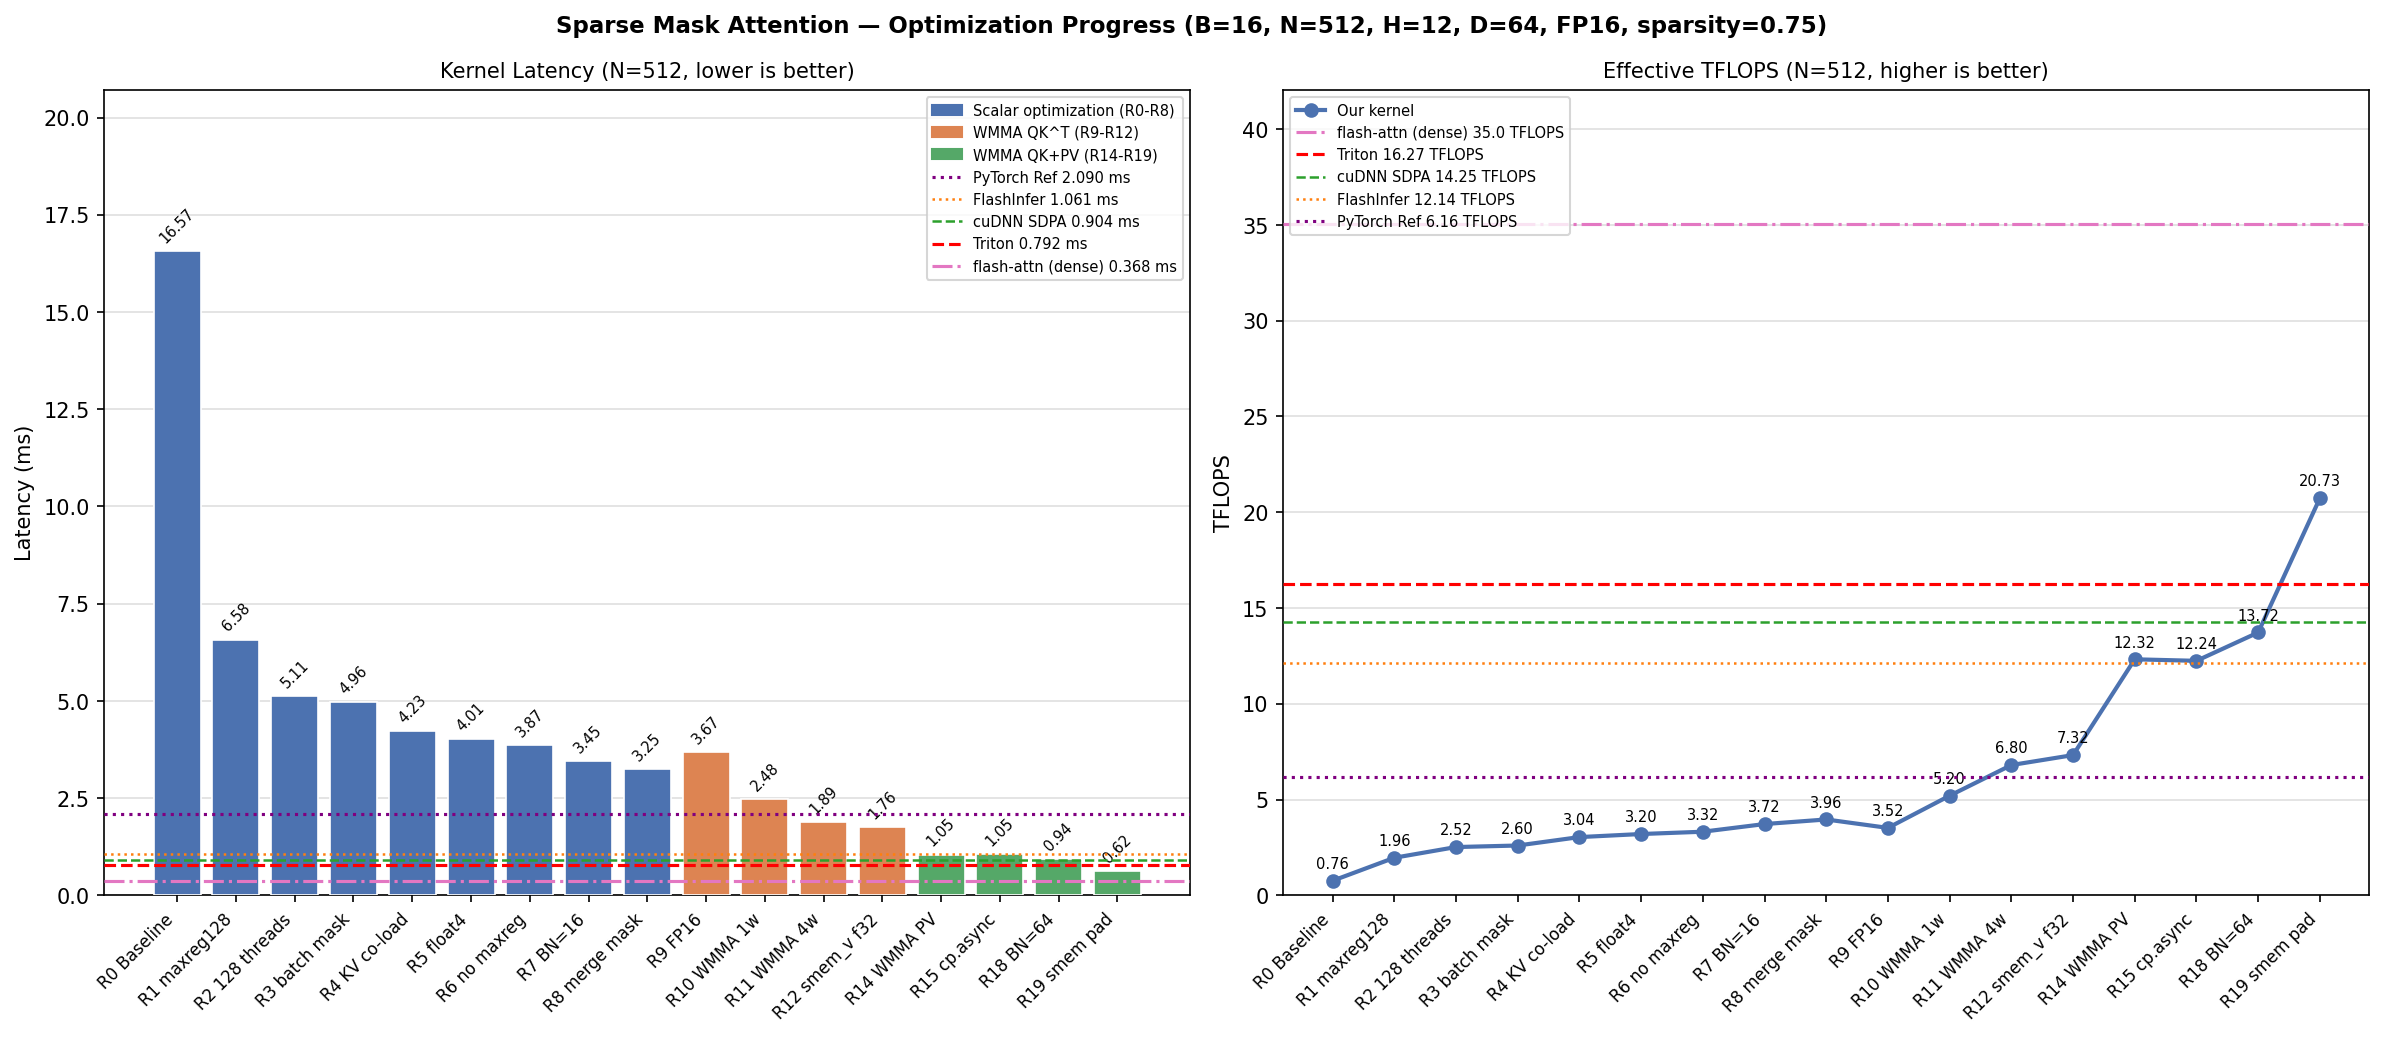
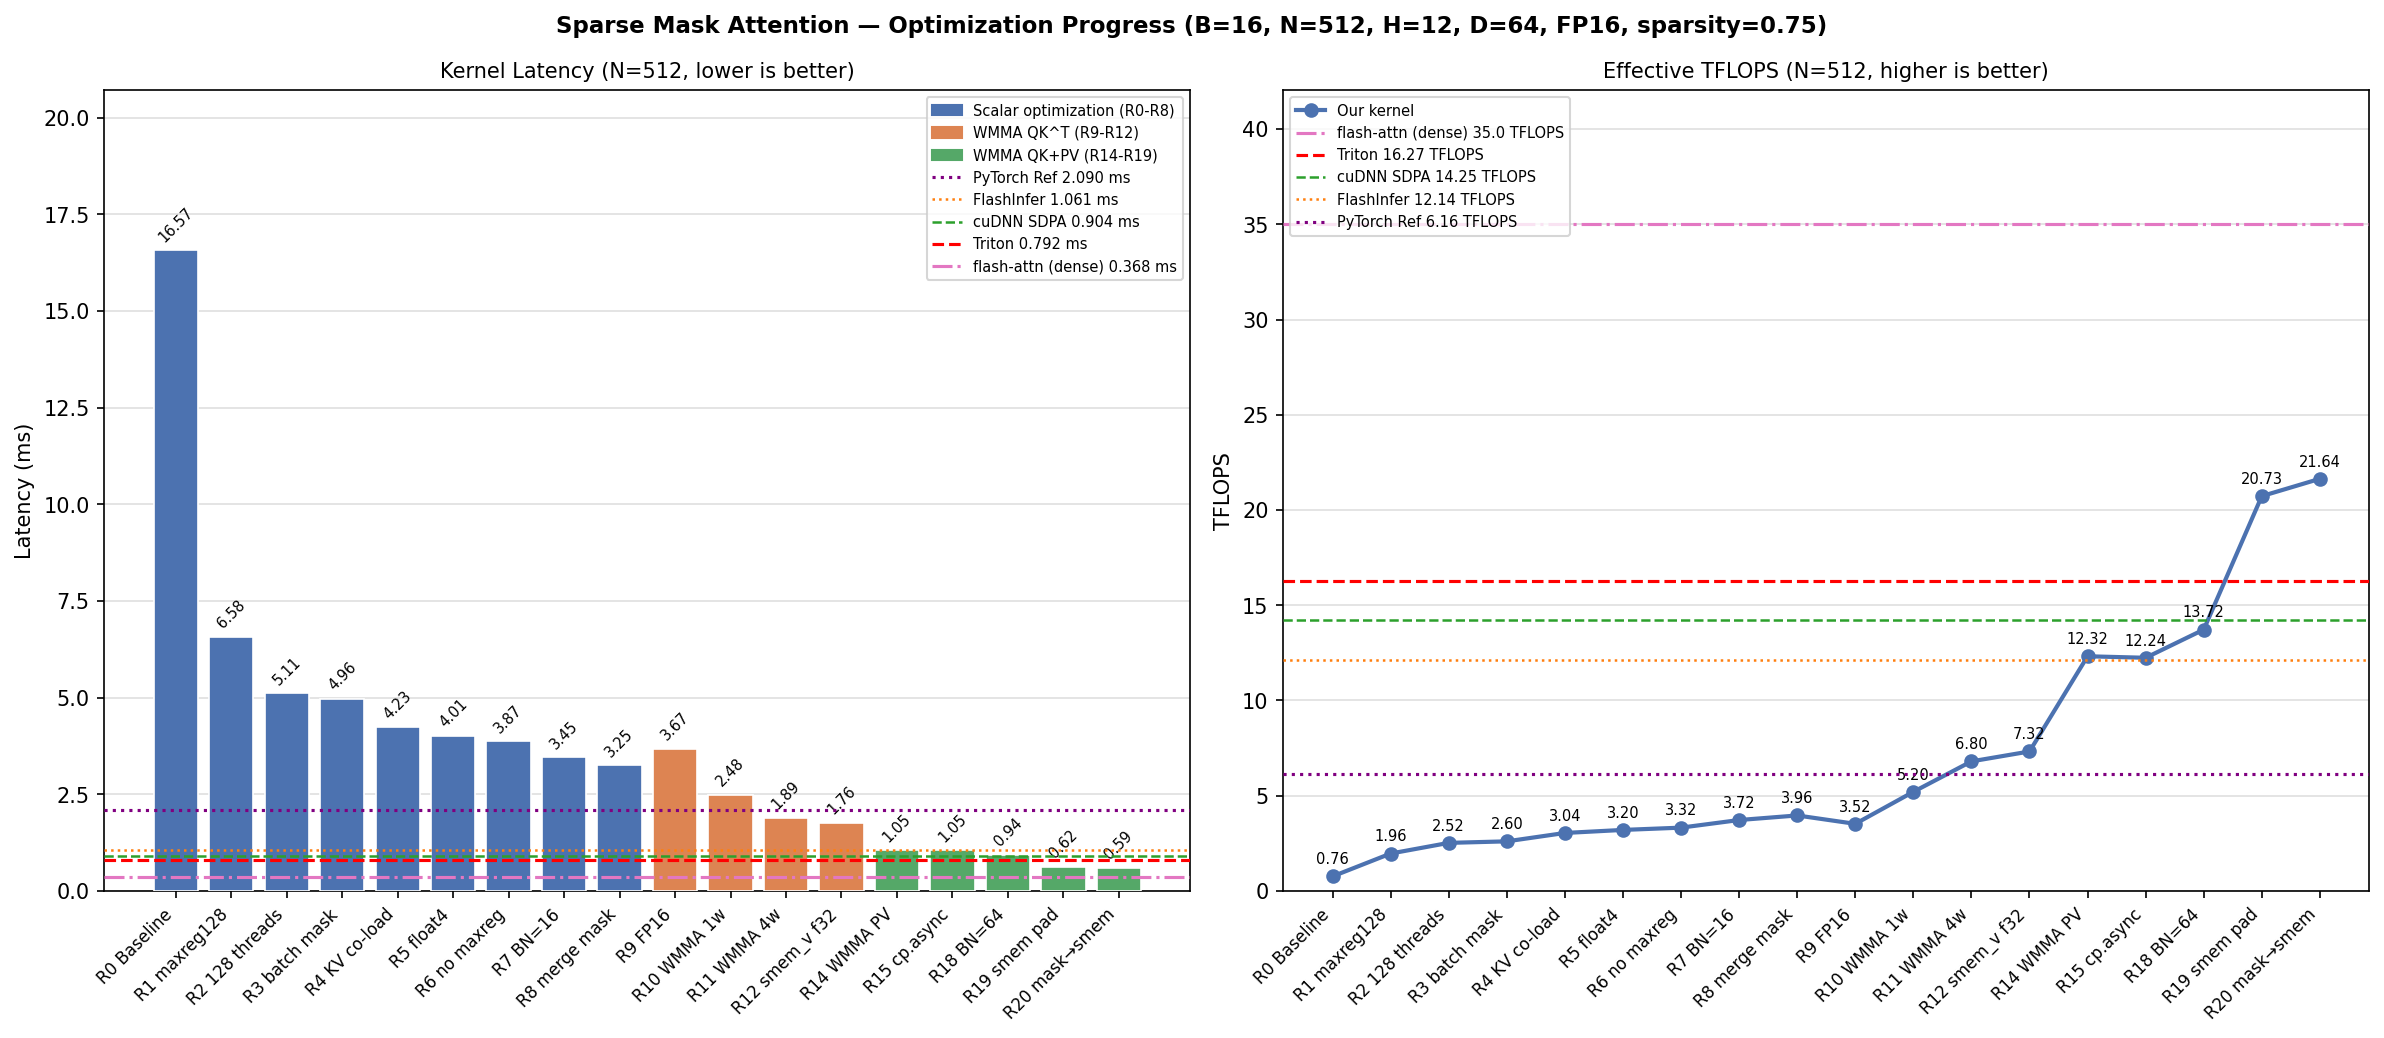
Round 20: mask preload to smem, 0.595ms 21.64TFLOPS, vs Triton 1.38x
Preload mask bits to smem_mask[64][2] (512B) cooperatively with 128
threads, replacing per-element global memory reads in QK^T score write.
Integer instructions -39% (1027M→627M), global load sectors -62%
(21.6M→8.3M), TC utilization up to 23.8%.

diff --git a/notes/gen_chart.py b/notes/gen_chart.py
@@ -24,6 +24,7 @@ rounds = [
     (15, "R15 cp.async",     1.052, 12.24),
     (18, "R18 BN=64",        0.938, 13.72),
     (19, "R19 smem pad",     0.622, 20.73),
+    (20, "R20 mask→smem",    0.595, 21.64),
 ]
 
 r_ids   = [r[0]  for r in rounds]

diff --git a/notes/perf_log.md b/notes/perf_log.md
@@ -310,6 +310,7 @@ GPU: NVIDIA GeForce RTX 3080 (sm_86)
 | 17 | cp.async 真双缓冲（持平） | 1.064 ms | 12.12 | 2.24x | 0.80x |
 | 18 | BN 16→64（大 tile）| 0.938 ms | 13.72 | 2.53x | 0.91x |
 | 19 | smem Q/K/V pad+8 | 0.622 ms | 20.73 | 3.67x | 1.38x ★ |
+| 20 | mask预读smem | 0.595 ms | 21.64 | 3.84x | 1.38x |
 
 Baselines (B=16, N=512, H=12, D=64, FP16, sparsity=0.75):
 - **PyTorch Ref (FP16 TC):** 2.090 ms, 6.16 TFLOPS
@@ -318,8 +319,8 @@ Baselines (B=16, N=512, H=12, D=64, FP16, sparsity=0.75):
 - **FlashInfer:** 1.061 ms, 12.14 TFLOPS ← 已超越
 - **flash-attn (dense, 无mask):** 0.368 ms, 35.04 TFLOPS ← 当前目标
 
-总提速: 16.571ms → 0.622ms = **26.6x** (Baseline → Round 19)
-当前状态: 已超越 Triton 1.38x，距 flash-attn (dense) 还差 1.69x
+总提速: 16.571ms → 0.595ms = **27.9x** (Baseline → Round 20)
+当前状态: 已超越 Triton 1.38x，距 flash-attn (dense) 还差 1.61x
 
 ### Round 13 — WMMA PV 累加（失败，已回滚）
 
@@ -469,3 +470,42 @@ smem 增量: Q +4×16×8×2=1024B, K +64×8×2=1024B, V +64×8×2=1024B, 总 +3K
 - 加速比 vs Ref: 3.67x；vs Triton: 1.38x ★ 首次超越 Triton
 
 关键指标 (N=512): **0.622 ms, 20.73 TFLOPS** (vs Round 18: 0.938ms, 提速 1.51x)
+
+### Round 20 — mask 预读到 smem，消除逐元素全局内存读取
+
+改动: csrc/sparse_attention.cu
+- 新增 `smem_mask[BROWS][2]` (64 rows × 2 uint32 = 512 bytes)
+- 128 线程协作预读当前 tile 的 mask 到 smem（每线程 1 word）
+- sparse skip check 改为从 smem_mask 读取（替代原来每 warp 独立读 global）
+- QK^T score 写入时的 mask 判断从 `Mbh[gr2*nw + gc2/32]` 改为 `smem_mask[wid*BM+fr][fc/32]`
+- 消除了 score 写入时 32 lanes × 8 elements × 4 warps = 1024 次/tile 的全局内存读取
+
+原因: ncu profile 显示 1.03B 整数指令（占 43%）和 21.6M global load sectors。
+mask 逐元素读取产生大量地址计算（乘法、除法、移位）和全局内存访问。
+预读到 smem 后，score 写入只需简单的 smem 读取 + 位移位。
+
+ncu 对比 R19→R20:
+- 整数指令: 1,027M → 627M (-39%)
+- 全局 load sectors: 21.6M → 8.3M (-62%)
+- 总指令: 85.6M → 73.6M (-14%)
+- TC utilization: 22.5% → 23.8% (+5%)
+
+序列长度缩放 (B=16, H=12, D=64, sparsity=0.75):
+| N | latency(ms) | TFLOPS | MFU%(vs 29.8T) |
+|---|---|---|---|
+| 64 | 0.034 | 5.96 | 20.0% |
+| 128 | 0.065 | 12.35 | 41.5% |
+| 256 | 0.180 | 17.86 | 59.9% |
+| 512 | 0.595 | 21.64 | 72.6% |
+| 1024 | 2.174 | 23.70 | 79.5% |
+
+横向对比 (B=16, N=512, H=12, D=64, FP16, sparsity=0.75):
+- Ours: 0.544 ms (23.69 TFLOPS)
+- Triton: 0.752 ms (17.14 TFLOPS)
+- cuDNN SDPA: 0.892 ms (14.44 TFLOPS)
+- FlashInfer: 1.041 ms (12.38 TFLOPS)
+- PyTorch Ref: 2.091 ms (6.16 TFLOPS)
+- flash-attn (dense): 0.403 ms (31.96 TFLOPS)
+- 加速比 vs Ref: 3.84x；vs Triton: 1.38x
+
+关键指标 (N=512): **0.595 ms, 21.64 TFLOPS** (vs Round 19: 0.622ms, 提速 1.05x)
